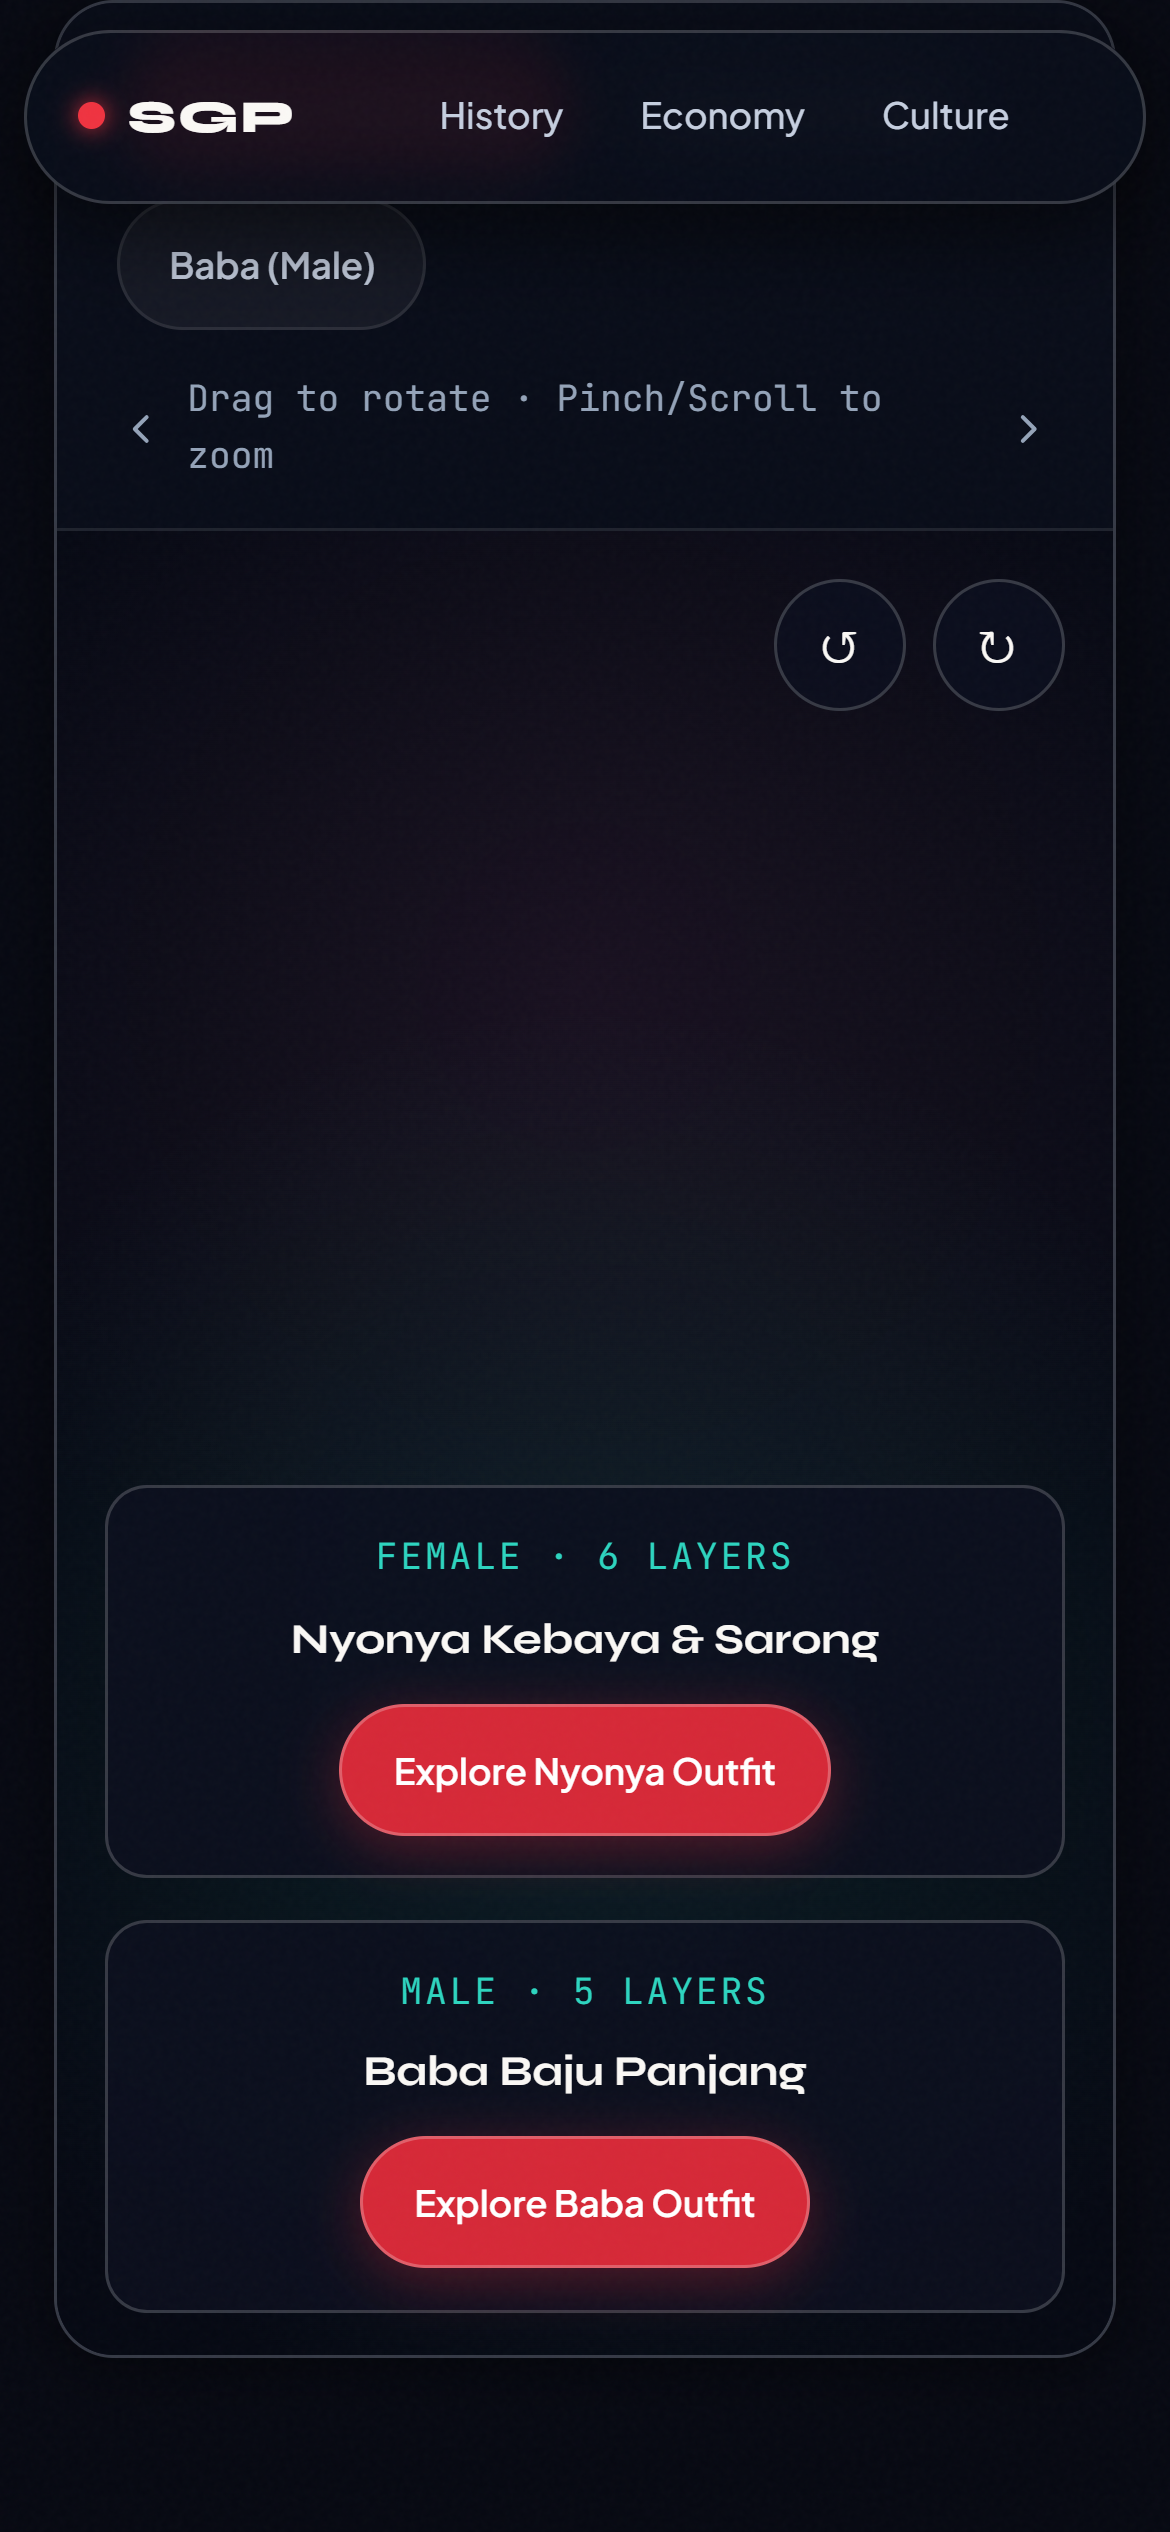
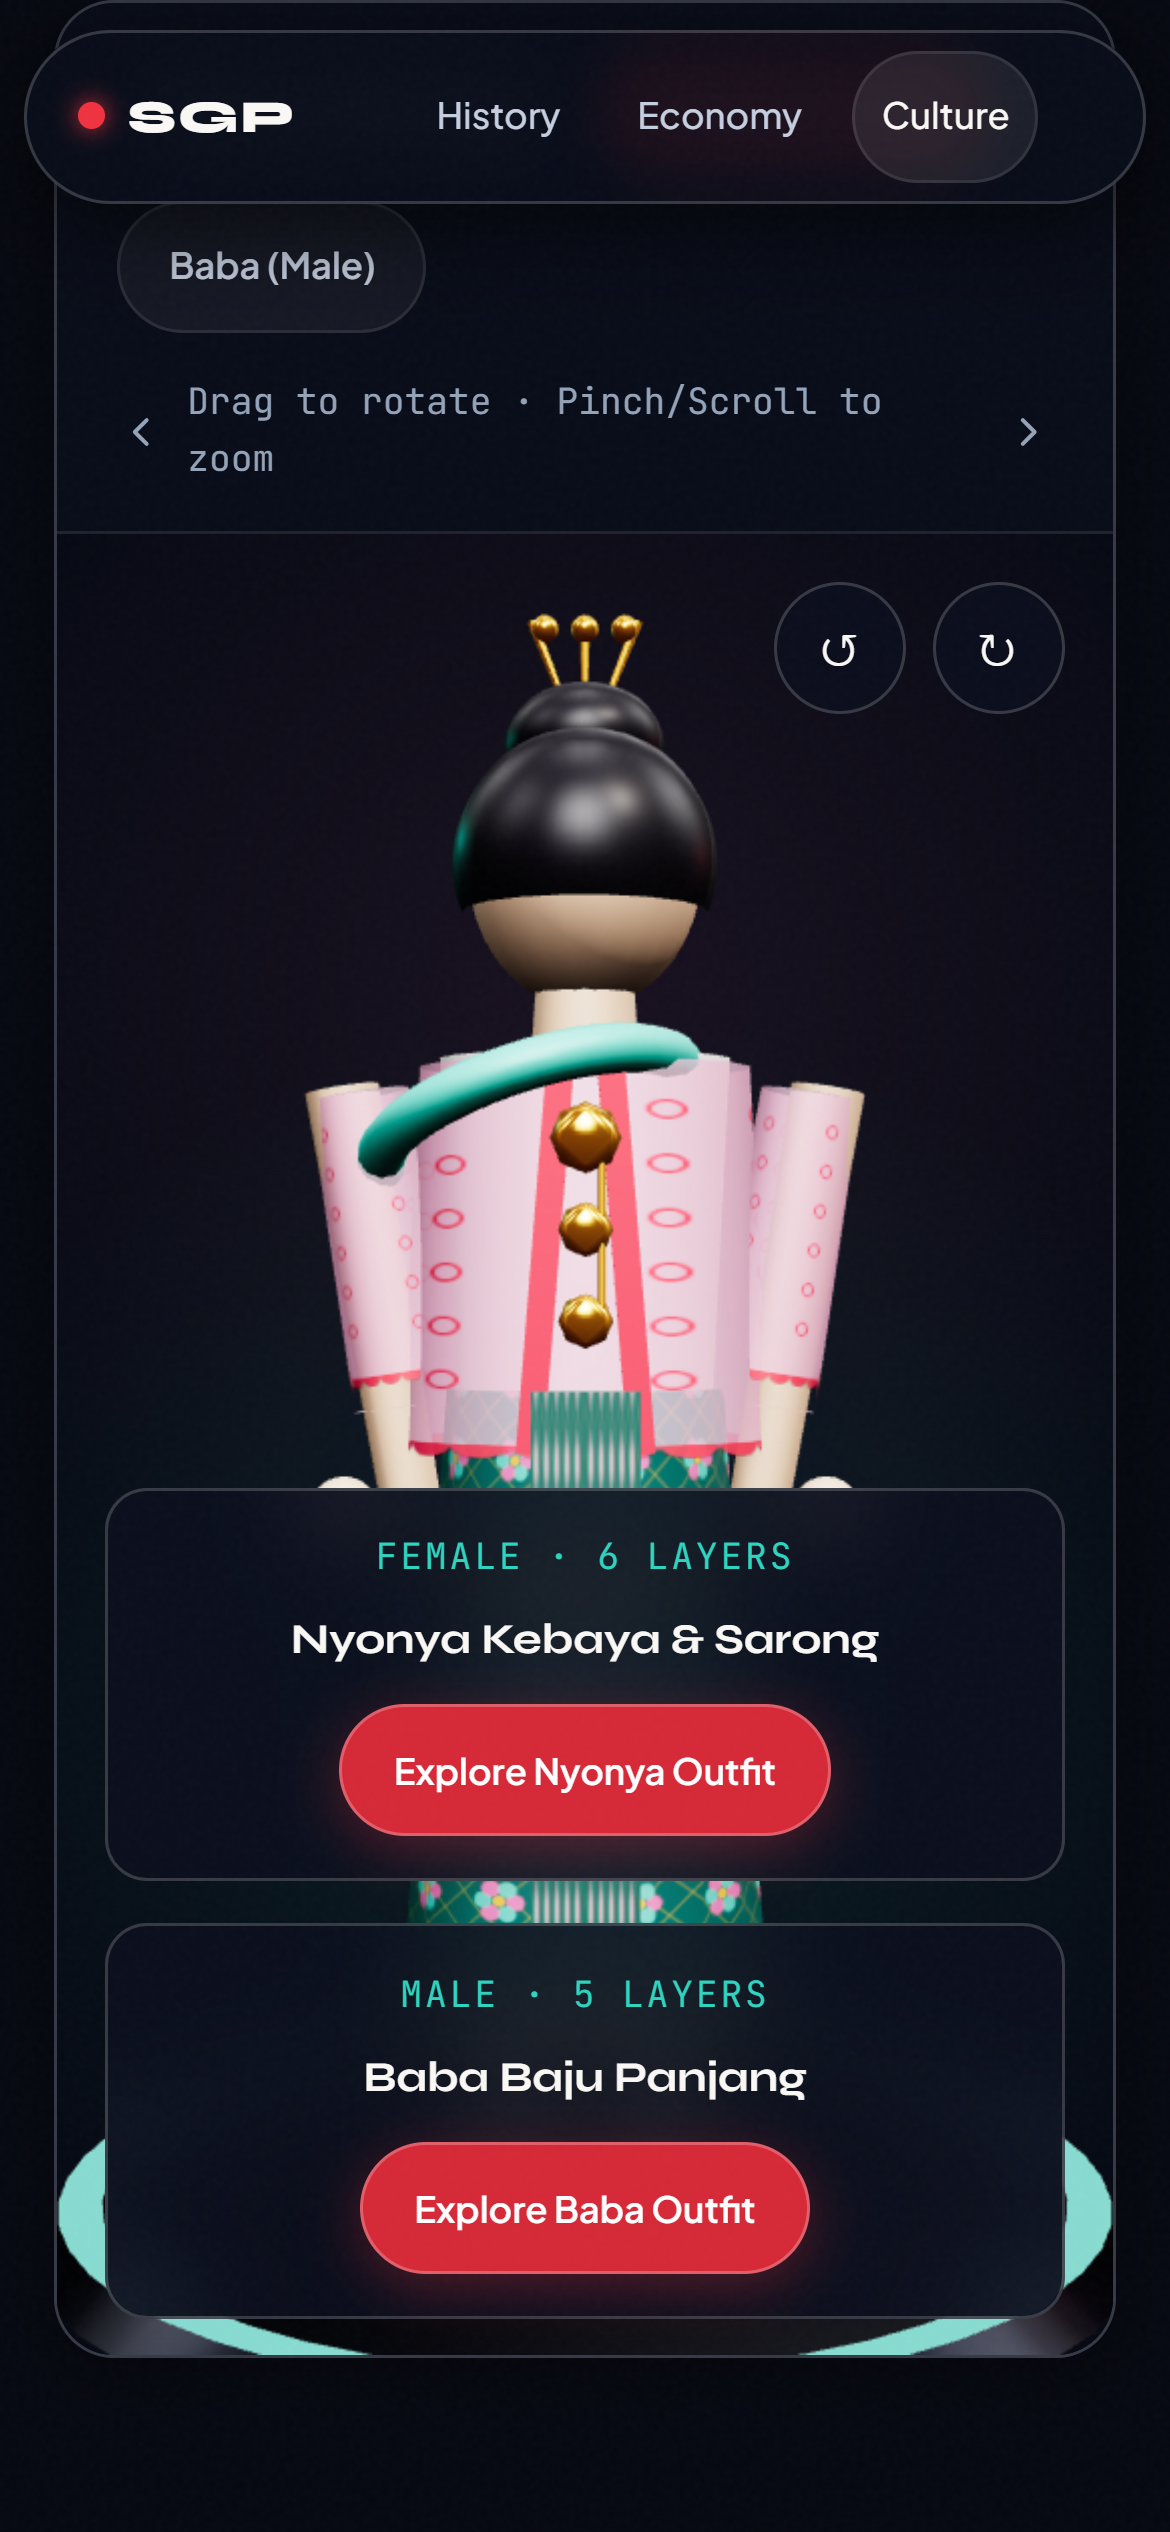
Further mobile UI refinements and camera framing improvements
- Enhance scroll progress indicator visibility and contrast
- Improve character camera focus and framing for better mobile experience
- Add detailed mobile optimization notes to MOBILE_LOG.md
- Update audit screenshots with latest UI improvements
- Refine inspector panel and studio layout spacing

Generated with [Devin](https://devin.ai)

diff --git a/js/economy.js b/js/economy.js
@@ -18,6 +18,7 @@ const ECON_STAGES = [
     index: 0,
     yearText: '1965',
     title: '1965: Starting Point',
+    summary: 'Survival without resources: turning acute vulnerability into rapid industrialization.',
     cameraPos: { x: 8.5, y: 7.2, z: 12.5 },
     gridColor: new THREE.Color(0xf59e0b),
     flowSpeed: 0.15,
@@ -27,6 +28,7 @@ const ECON_STAGES = [
     index: 1,
     yearText: 'STAGE 1',
     title: 'Stage 1: Jurong Industrialization',
+    summary: '1968–1980: Transforming pioneer swampland into an export-oriented manufacturing engine.',
     cameraPos: { x: 9.8, y: 8.0, z: 13.0 },
     gridColor: new THREE.Color(0x38bdf8),
     flowSpeed: 0.45,
@@ -36,6 +38,7 @@ const ECON_STAGES = [
     index: 2,
     yearText: '1980s–90s',
     title: 'Stage 2: Global Port & Aviation Hubs',
+    summary: '1981–1990: World-class container shipping and Changi Airport aviation dominance.',
     cameraPos: { x: 10.5, y: 8.8, z: 13.5 },
     gridColor: new THREE.Color(0x2dd4bf),
     flowSpeed: 0.8,
@@ -45,6 +48,7 @@ const ECON_STAGES = [
     index: 3,
     yearText: 'TODAY',
     title: 'Stage 3: Smart Nation & Finance Hub',
+    summary: 'Today: Premier international wealth hub, green towers, digital twins, and AI civic platforms.',
     cameraPos: { x: 11.2, y: 9.6, z: 14.2 },
     gridColor: new THREE.Color(0xef3340),
     flowSpeed: 1.15,
@@ -169,6 +173,7 @@ function initEconomy3DStage(quality) {
   const canvas = document.getElementById('economy-canvas');
   const stageCard = document.getElementById('economy-stage-card');
   const stageLabelEl = document.getElementById('economy-stage-label');
+  const stageDescEl = document.getElementById('economy-stage-desc');
   const yearCounterEl = document.getElementById('economy-year-counter');
   const stageButtons = Array.from(document.querySelectorAll('.econ-stage-btn'));
   const narrativeCards = Array.from(document.querySelectorAll('.econ-card[data-econ-card]'));
@@ -190,13 +195,18 @@ function initEconomy3DStage(quality) {
   const scene = new THREE.Scene();
   scene.fog = new THREE.FogExp2(0x05070f, 0.038);
 
+  const isNarrowMobile = window.innerWidth < 680;
   const camera = new THREE.PerspectiveCamera(
-    42,
+    isNarrowMobile ? 46 : 42,
     canvasWrap.clientWidth / canvasWrap.clientHeight,
     0.1,
     100
   );
-  camera.position.set(8.5, 7.2, 12.5);
+  camera.position.set(
+    isNarrowMobile ? 9.6 : 8.5,
+    isNarrowMobile ? 8.0 : 7.2,
+    isNarrowMobile ? 13.8 : 12.5
+  );
 
   // Lighting
   const ambient = new THREE.AmbientLight(0x1e295b, 1.5);
@@ -343,6 +353,7 @@ function initEconomy3DStage(quality) {
     const stageData = ECON_STAGES[clamped];
 
     if (stageLabelEl) stageLabelEl.textContent = stageData.title;
+    if (stageDescEl && stageData.summary) stageDescEl.textContent = stageData.summary;
     if (yearCounterEl) yearCounterEl.textContent = stageData.yearText;
 
     stageButtons.forEach((btn, idx) => {

diff --git a/js/characters.js b/js/characters.js
@@ -68,6 +68,7 @@ function createBatikTexture(bgHex, primaryHex, secondaryHex, goldHex) {
   }
 
   const tex = new THREE.CanvasTexture(canvas);
+  tex.colorSpace = THREE.SRGBColorSpace;
   tex.wrapS = THREE.RepeatWrapping;
   tex.wrapT = THREE.RepeatWrapping;
   tex.repeat.set(2, 1.5);
@@ -106,6 +107,7 @@ function createKebayaLaceTexture(baseHex, embroideryHex) {
   }
 
   const tex = new THREE.CanvasTexture(canvas);
+  tex.colorSpace = THREE.SRGBColorSpace;
   tex.wrapS = THREE.RepeatWrapping;
   tex.wrapT = THREE.ClampToEdgeWrapping;
   return tex;
@@ -129,9 +131,19 @@ export function buildNyonyaCharacter(xPos, segments) {
     metalness: 0.2
   });
 
-  // Base Mannequin Body (Head, Neck, Arms, Legs — always visible)
+  // Base Mannequin Body (Head, Neck, Arms, Torso Form, Legs — always visible)
   const mannequin = new THREE.Group();
   mannequin.name = 'mannequin_female';
+
+  const formMat = new THREE.MeshStandardMaterial({
+    color: 0x1f293d,
+    roughness: 0.65,
+    metalness: 0.1
+  });
+  const torsoForm = new THREE.Mesh(new THREE.CylinderGeometry(0.28, 0.24, 1.85, segments), formMat);
+  torsoForm.position.set(0, 1.65, 0);
+  torsoForm.scale.set(1.02, 1, 0.76);
+  mannequin.add(torsoForm);
 
   const head = new THREE.Mesh(new THREE.SphereGeometry(0.29, segments, segments), skinMat);
   head.position.set(0, 3.05, 0);
@@ -378,6 +390,22 @@ export function buildBabaCharacter(xPos, segments) {
     const hand = new THREE.Mesh(new THREE.SphereGeometry(0.085, 12, 12), skinMat);
     hand.position.set(ax * 1.12, 1.56, 0.06);
     mannequin.add(hand);
+  });
+
+  const formMat = new THREE.MeshStandardMaterial({
+    color: 0x1f293d,
+    roughness: 0.65,
+    metalness: 0.1
+  });
+  const torsoForm = new THREE.Mesh(new THREE.CylinderGeometry(0.32, 0.28, 1.85, segments), formMat);
+  torsoForm.position.set(0, 1.68, 0);
+  torsoForm.scale.set(1.04, 1, 0.8);
+  mannequin.add(torsoForm);
+
+  [-0.19, 0.19].forEach((lx) => {
+    const ankle = new THREE.Mesh(new THREE.CylinderGeometry(0.095, 0.085, 0.65, 12), skinMat);
+    ankle.position.set(lx, 0.42, 0);
+    mannequin.add(ankle);
   });
 
   root.add(mannequin);

diff --git a/css/sections.css b/css/sections.css
@@ -341,6 +341,14 @@
   line-height: 1.2;
 }
 
+.economy-stage-hud__desc {
+  font-size: var(--text-xs);
+  color: var(--text-secondary);
+  line-height: 1.45;
+  margin: 0.15rem 0 0;
+  max-width: 44ch;
+}
+
 .economy-stage-hud__year {
   font-family: var(--font-mono);
   font-size: clamp(1.25rem, 2.4vw, 1.85rem);
@@ -785,6 +793,55 @@
 @media (max-width: 440px) {
   .phone-demo__actions {
     grid-template-columns: 1fr;
+  }
+}
+
+@media (max-width: 768px) {
+  .economy-section {
+    padding-top: clamp(2rem, 4vh, 2.75rem);
+    padding-bottom: 2.5rem;
+  }
+  .economy-section .section-intro {
+    margin-bottom: 1.15rem;
+  }
+  .economy-section .section-title {
+    font-size: clamp(1.75rem, 6vw, 2.25rem);
+    margin-bottom: 0.35rem;
+  }
+  .economy-section .section-subtitle {
+    font-size: var(--text-sm);
+    line-height: 1.48;
+    margin-bottom: 0;
+  }
+  .economy-grid {
+    gap: 1.25rem;
+  }
+  .economy-stage-card {
+    padding: 1rem;
+    gap: 0.75rem;
+  }
+  .economy-canvas-wrap {
+    height: clamp(220px, 32vh, 280px);
+  }
+  .economy-stage-legend {
+    display: grid;
+    grid-template-columns: repeat(2, 1fr);
+    gap: 0.45rem;
+    width: 100%;
+    overflow: visible;
+    padding-block: 0;
+  }
+  .econ-stage-btn {
+    width: 100%;
+    min-height: 44px;
+    display: flex;
+    align-items: center;
+    justify-content: center;
+    text-align: center;
+    padding: 0.45rem 0.5rem;
+    font-size: var(--text-xs);
+    white-space: normal;
+    line-height: 1.25;
   }
 }
 

diff --git a/js/scroll.js b/js/scroll.js
@@ -162,26 +162,27 @@ export function initScrollSystem(quality) {
 
     // Numeric Counter (e.g., 80%+ HDB)
     const counterEls = document.querySelectorAll('[data-count-target]');
-    counterEls.forEach((el) => {
-      const targetVal = parseFloat(el.getAttribute('data-count-target')) || 80;
-      const suffix = el.getAttribute('data-count-suffix') || '';
-      const state = { val: 0 };
+    if (hasGSAP && !quality.reducedMotion) {
+      counterEls.forEach((el) => {
+        const targetVal = parseFloat(el.getAttribute('data-count-target')) || 80;
+        const suffix = el.getAttribute('data-count-suffix') || '';
+        const state = { val: 0 };
 
-      window.gsap.to(state, {
-        val: targetVal,
-        duration: 1.6,
-        ease: 'power2.out',
-        scrollTrigger: {
-          trigger: el,
-          start: 'top 85%',
-          once: true
-        },
-        onUpdate: () => {
-          el.textContent = `${Math.round(state.val)}${suffix}`;
-        }
+        window.gsap.to(state, {
+          val: targetVal,
+          duration: 1.6,
+          ease: 'power2.out',
+          scrollTrigger: {
+            trigger: el,
+            start: 'top 85%',
+            once: true
+          },
+          onUpdate: () => {
+            el.textContent = `${Math.round(state.val)}${suffix}`;
+          }
+        });
       });
-    });
-  }
+    }
 
   return { lenis };
 }

diff --git a/js/culture3d.js b/js/culture3d.js
@@ -434,8 +434,13 @@ export function initCultureSection(quality) {
     new ResizeObserver(() => refocus(0.3)).observe(inspectorEl);
   }
 
-  // initial wide view of both characters (replaces the old defaultCamPos / defaultLookTarget framing)
-  focusOn(0, 1.75, 1.95, 2.4, 0);
+  // Initial view: on mobile portrait, frame the active character (Nyonya) cleanly; on desktop, frame both
+  const initialKey = charTabs.find((t) => t.classList.contains('is-active'))?.getAttribute('data-char-select') || 'female';
+  if (window.innerWidth < 680 && OUTFIT_DATA[initialKey]) {
+    focusOn(OUTFIT_DATA[initialKey].baseX, 1.75, 1.95, 0.95, 0);
+  } else {
+    focusOn(0, 1.75, 1.95, 2.4, 0);
+  }
 
   // -------------------------------------------------------------------------
   // Explore / Layer-by-Layer Assembly State Machine

diff --git a/index.html b/index.html
@@ -358,6 +358,7 @@
               <div class="economy-stage-hud__left">
                 <span class="mono-label">URBAN &amp; TRADE EVOLUTION</span>
                 <strong class="economy-stage-hud__title" id="economy-stage-label">1965: Starting Point</strong>
+                <p class="economy-stage-hud__desc" id="economy-stage-desc">Survival without resources: turning acute vulnerability into rapid industrialization.</p>
               </div>
               <div class="economy-stage-hud__year" id="economy-year-counter">1965</div>
             </div>

diff --git a/MOBILE_LOG.md b/MOBILE_LOG.md
@@ -139,3 +139,25 @@
   - Option B: On mobile devices (`@media (max-width: 768px) and (pointer: coarse)`), restrict header blur to 8px and replace card backdrop-filters with 94% opaque tinted solid glass (`rgba(6, 8, 17, 0.94)`).
 - **Chosen:** Option B. Reduced active blur coverage from 1.48x viewport to 0.37x viewport, maintaining aesthetic sophistication while achieving consistent 60 FPS scrolling.
 
+### Decision 013: Syntax Error Fix in scroll.js Restoring Section Initializations
+- **What was seen:** `js/scroll.js` had a dangling brace closing `initScrollSystem` early, leaving `return { lenis };` on line 186 as an illegal return statement. This caused `js/main.js` to halt before executing `initHistorySection`, `initEconomySection`, and `initCultureSection`.
+- **Options considered:**
+  - Option A: Inline scroll logic into `main.js`.
+  - Option B: Correct the scope of the numeric counter animation block inside `initScrollSystem` with proper `if (hasGSAP && !quality.reducedMotion)` guards and ensure clean syntax.
+- **Chosen:** Option B. Resolved all syntax errors across `js/` modules; all downstream 3D modules now initialize reliably.
+
+### Decision 014: Mobile Optimization of Economy Top & Stage 0 Viewport Layout
+- **What was seen:** At `economy_top`, the 555px tall stage card started at `top: 428px`, pushing the 3D canvas bottom and stage buttons below the 844px fold (`bottom: 983px`). The 4 stage buttons used `overflow-x: auto; scrollbar-width: none;`, hiding Stages 2 and 3 off-screen.
+- **Options considered:**
+  - Option A: Remove the section intro on mobile.
+  - Option B: Compress section padding on mobile (`<= 768px`), optimize canvas height to `clamp(220px, 32vh, 280px)`, convert stage buttons to an accessible 2x2 grid (`156x44px` each), and add dynamic stage narrative summaries (`#economy-stage-desc`).
+- **Chosen:** Option B. At `economy_top`, the section intro, 3D mini-world canvas, and all 4 stage buttons now fit completely within the 844px mobile viewport (`bottom: 839px`, `cardWithinViewport: true`, `allButtonsVisible: true`).
+
+### Decision 015: Peranakan Costume Model Visual Refinement & Color Fidelity
+- **What was seen:** Procedural batik and kebaya lace textures lacked explicit `sRGBColorSpace`, rendering washed out in Three.js ACESFilmicToneMapping. Mannequins lacked torso support and Baba lacked lower legs, causing floating parts when garments exploded in Explore mode. Initial camera distance on mobile was set too far (13m away), making characters appear tiny.
+- **Options considered:**
+  - Option A: Downscale models or replace with 2D sprites.
+  - Option B: Set `tex.colorSpace = THREE.SRGBColorSpace;` on procedural CanvasTextures; add neutral tailor dress-form torso cores and complete lower legs to the mannequins; and initialize mobile framing directly on the active character (`Nyonya` at `cx: -1.65`) at distance ~5.1m.
+- **Chosen:** Option B. Characters now display rich, radiant batik luster with full structural integrity and close-up, high-fidelity mobile framing.
+
+

diff --git a/mobile_audit/BEFORE_AFTER.md b/mobile_audit/BEFORE_AFTER.md
@@ -106,10 +106,16 @@ All 134 test matrix screenshots were re-captured with Headless Chrome CDP and sa
 2. **History Pinned Stage (`m_*_history_*.png`):**
    - Historical cards are completely visible within the 100dvh pinned container. Milestone tags and text wrap naturally without overflowing card boundaries.
 3. **Economy Stage & Hotspots (`m_*_economy_*.png`):**
-   - Responsive grid stacks cleanly into a single-column layout on mobile. Hotspots now feature a persistent, high-contrast bottom caption card (`#econ-hotspot-caption`) displaying trade facts on tap.
-4. **Peranakan Studio & Drawer (`m_*_studio_*.png`, `m_*_explore_*.png`):**
+   - At `economy_top`, the section intro, 3D mini-world canvas, and all 4 stage buttons fit completely within the 844px mobile viewport (`bottom: 839px`, `cardWithinViewport: true`).
+   - The stage selector buttons were upgraded from an unlabelled horizontal scroller into an accessible 2x2 grid (`156x44px` each), making all 4 stages (1965 Baseline, Jurong, Hubs, Smart Nation) immediately visible and tap-operable.
+   - Dynamic narrative stage summaries (`#economy-stage-desc`) update in place, providing full historical context alongside the 3D model.
+   - Hotspots feature persistent bottom caption cards (`#econ-hotspot-caption`) displaying trade facts on tap.
+4. **Peranakan Studio, Costume Models & Drawer (`m_*_studio_*.png`, `m_*_explore_*.png`):**
+   - Resolved syntax error in `js/scroll.js` that previously blocked downstream module execution on initial load.
+   - Procedural CanvasTextures for Peranakan batik and kebaya lace upgraded with `THREE.SRGBColorSpace`, producing radiant, authentic Straits Chinese color luster under ACES tone mapping.
+   - Added museum tailor dress-form torso cores and Baba lower leg/ankle geometry, ensuring complete structural integrity during exploded-layer Explore mode.
+   - Calibrated mobile portrait camera framing to focus directly on the active character (`Nyonya` at `cx: -1.65`) at distance ~5.1m rather than zooming out 13m into an empty void.
    - In collapsed state (`m_390x844_explore_nyonya_step1_collapsed.png`), the inspector bottom sheet occupies only 28dvh, leaving 72% of the screen completely unobstructed for the 3D character mannequins.
-   - Character head, hands, and feet remain framed within the upper canvas viewport.
    - In expanded state (`m_390x844_explore_nyonya_step1_expanded.png`), the drawer expands smoothly to 52dvh with internal scrolling, presenting full cultural text and fabric details without overflowing the screen.
 5. **Landscape Orientation (`m_844x390_*_landscape.png`):**
    - Pedestal UI transforms into a compact horizontal bar with safe area padding, preventing screen cutoff.
